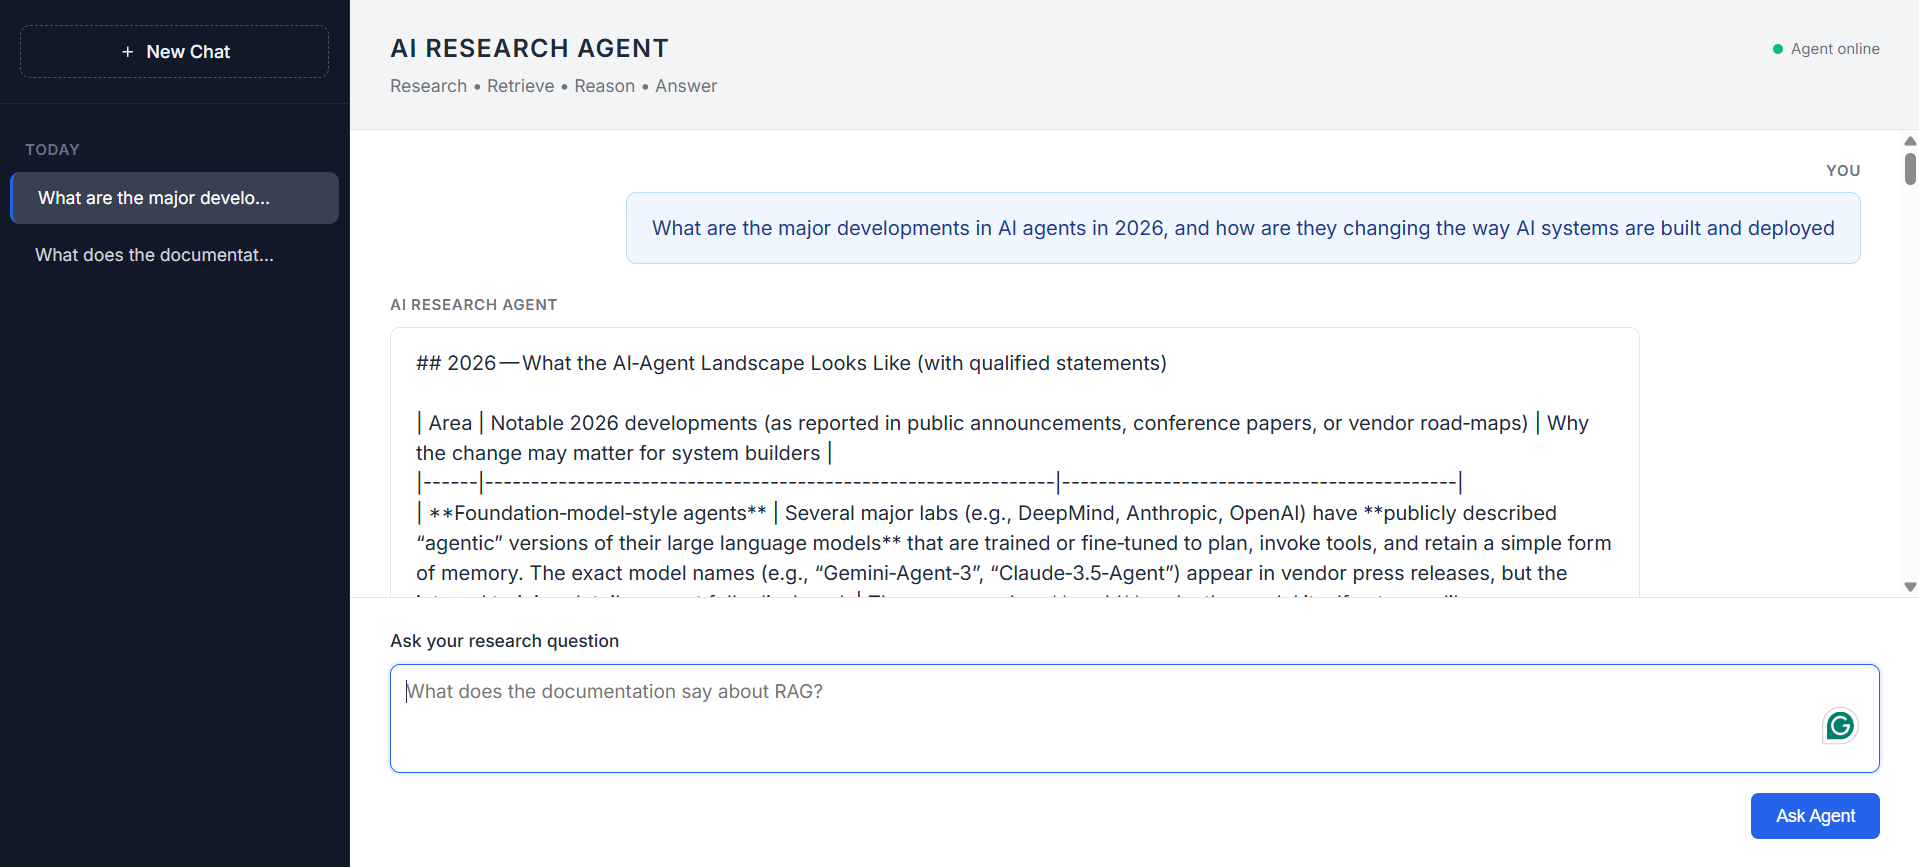
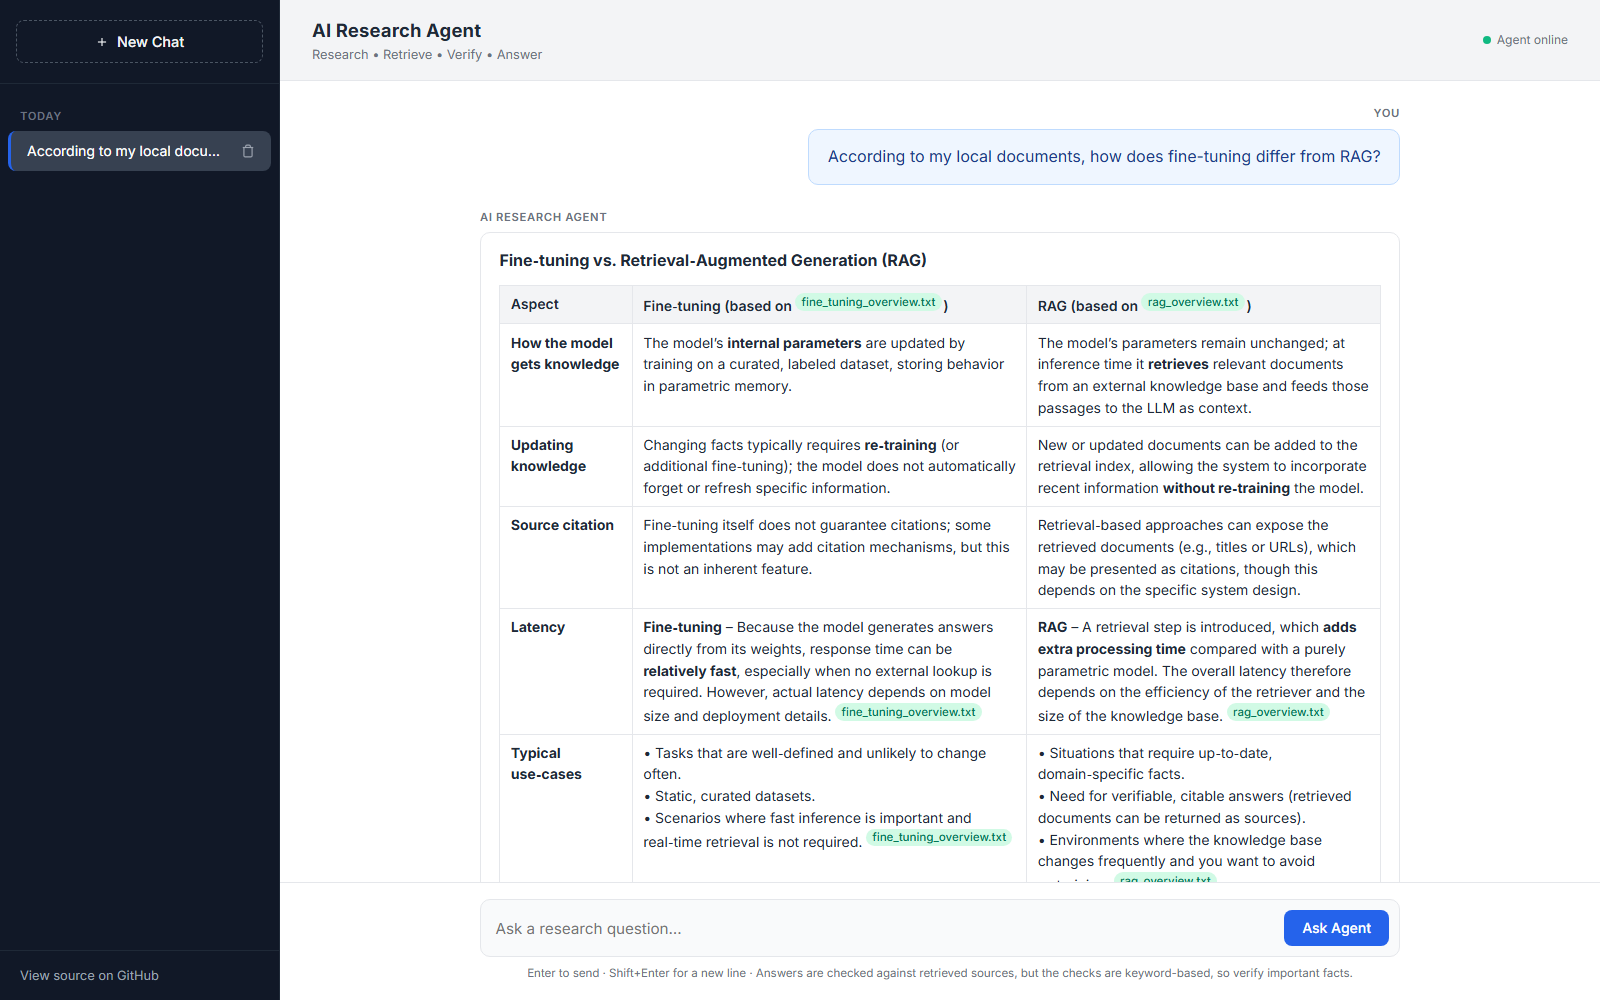
docs: refresh README screenshots; fix squeezed table columns in UI
The README still showed the August UI (raw markdown, old header and input).

- new demo screenshot of the current UI answering from local documents
- second screenshot (collapsible in README) with the sources list and the
  execution trace, showing the verification steps
- fix: overflow-wrap:anywhere on the message bubble let tables squeeze the
  first column until words broke mid-word ("Aspec/t"); table cells now break
  only at word boundaries and the label column has a minimum width
- bump asset version to 1.2.1 so browsers load the new stylesheet

diff --git a/frontend/index.html b/frontend/index.html
@@ -9,7 +9,7 @@
     <link rel="preconnect" href="https://fonts.googleapis.com">
     <link rel="preconnect" href="https://fonts.gstatic.com" crossorigin>
     <link href="https://fonts.googleapis.com/css2?family=Inter:wght@400;500;600;700&display=swap" rel="stylesheet">
-    <link rel="stylesheet" href="/static/style.css?v=1.2.0">
+    <link rel="stylesheet" href="/static/style.css?v=1.2.1">
 </head>
 <body>
     <div class="app-layout">
@@ -76,6 +76,6 @@
 
     <script src="https://cdn.jsdelivr.net/npm/marked@12.0.2/marked.min.js"></script>
     <script src="https://cdn.jsdelivr.net/npm/dompurify@3.1.6/dist/purify.min.js"></script>
-    <script src="/static/app.js?v=1.2.0"></script>
+    <script src="/static/app.js?v=1.2.1"></script>
 </body>
 </html>

diff --git a/frontend/style.css b/frontend/style.css
@@ -462,6 +462,16 @@ h1 {
     padding: 0.45rem 0.65rem;
     text-align: left;
     vertical-align: top;
+    /* The bubble uses overflow-wrap:anywhere for long URLs; inside tables that lets the
+       browser squeeze columns until words break mid-word ("Aspec/t"). Break only at
+       word boundaries here, and give the label column room. */
+    overflow-wrap: break-word;
+    word-break: normal;
+}
+
+.answer-content th:first-child,
+.answer-content td:first-child {
+    min-width: 7.5rem;
 }
 
 .answer-content th {

diff --git a/README.md b/README.md
@@ -11,7 +11,16 @@
 
 **Live demo:** https://ai-research-agent-sj1r.onrender.com/ &nbsp;·&nbsp; (free tier: the first request after idle can take 30–60 s)
 
-![AI Research Agent demo](docs/images/ai-research-agent-demo.png)
+![AI Research Agent answering from local documents, with citation chips in a comparison table](docs/images/ai-research-agent-demo.png)
+
+<details>
+<summary><b>See how the answer was verified</b>: sources and the execution trace</summary>
+
+<br>
+
+![Sources list and execution trace: local search, evidence check, claim grounding, citation validation, revision and rewrite](docs/images/ai-research-agent-verification.png)
+
+</details>
 
 ---
 
